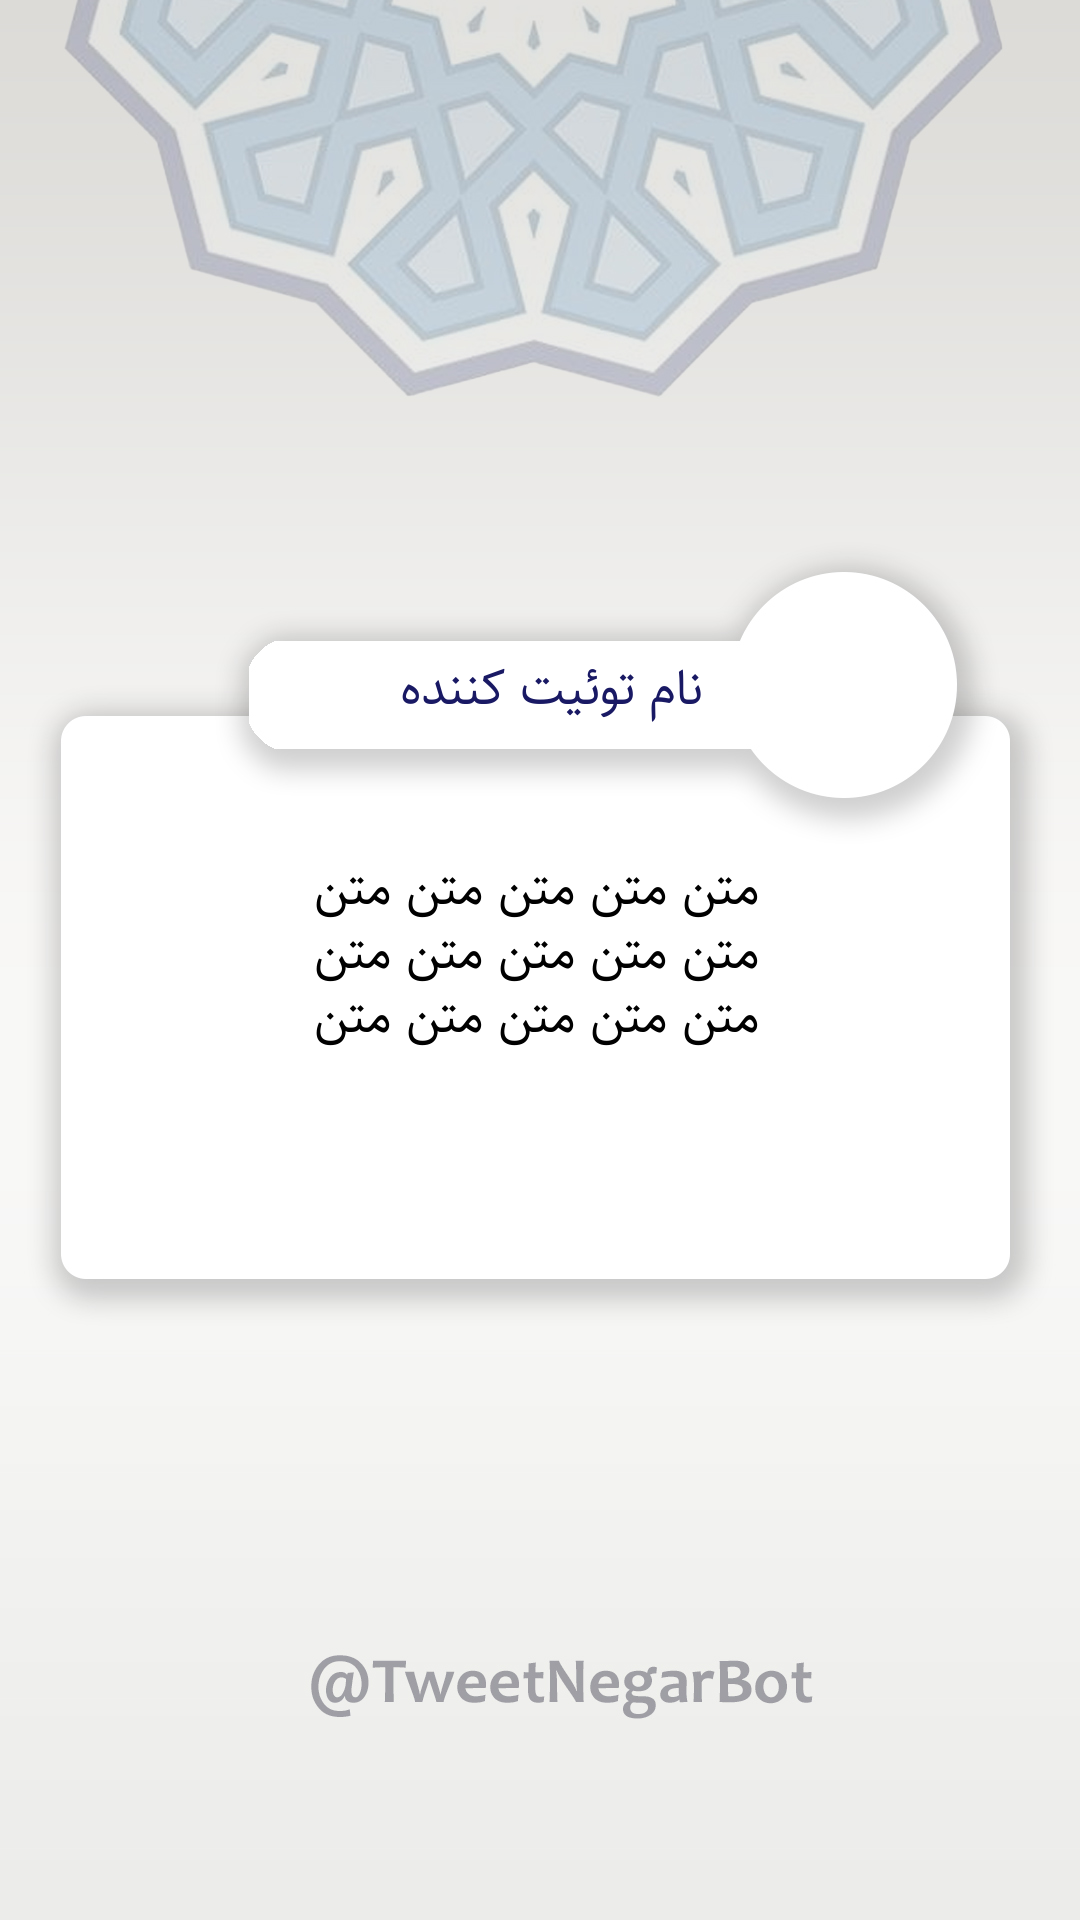
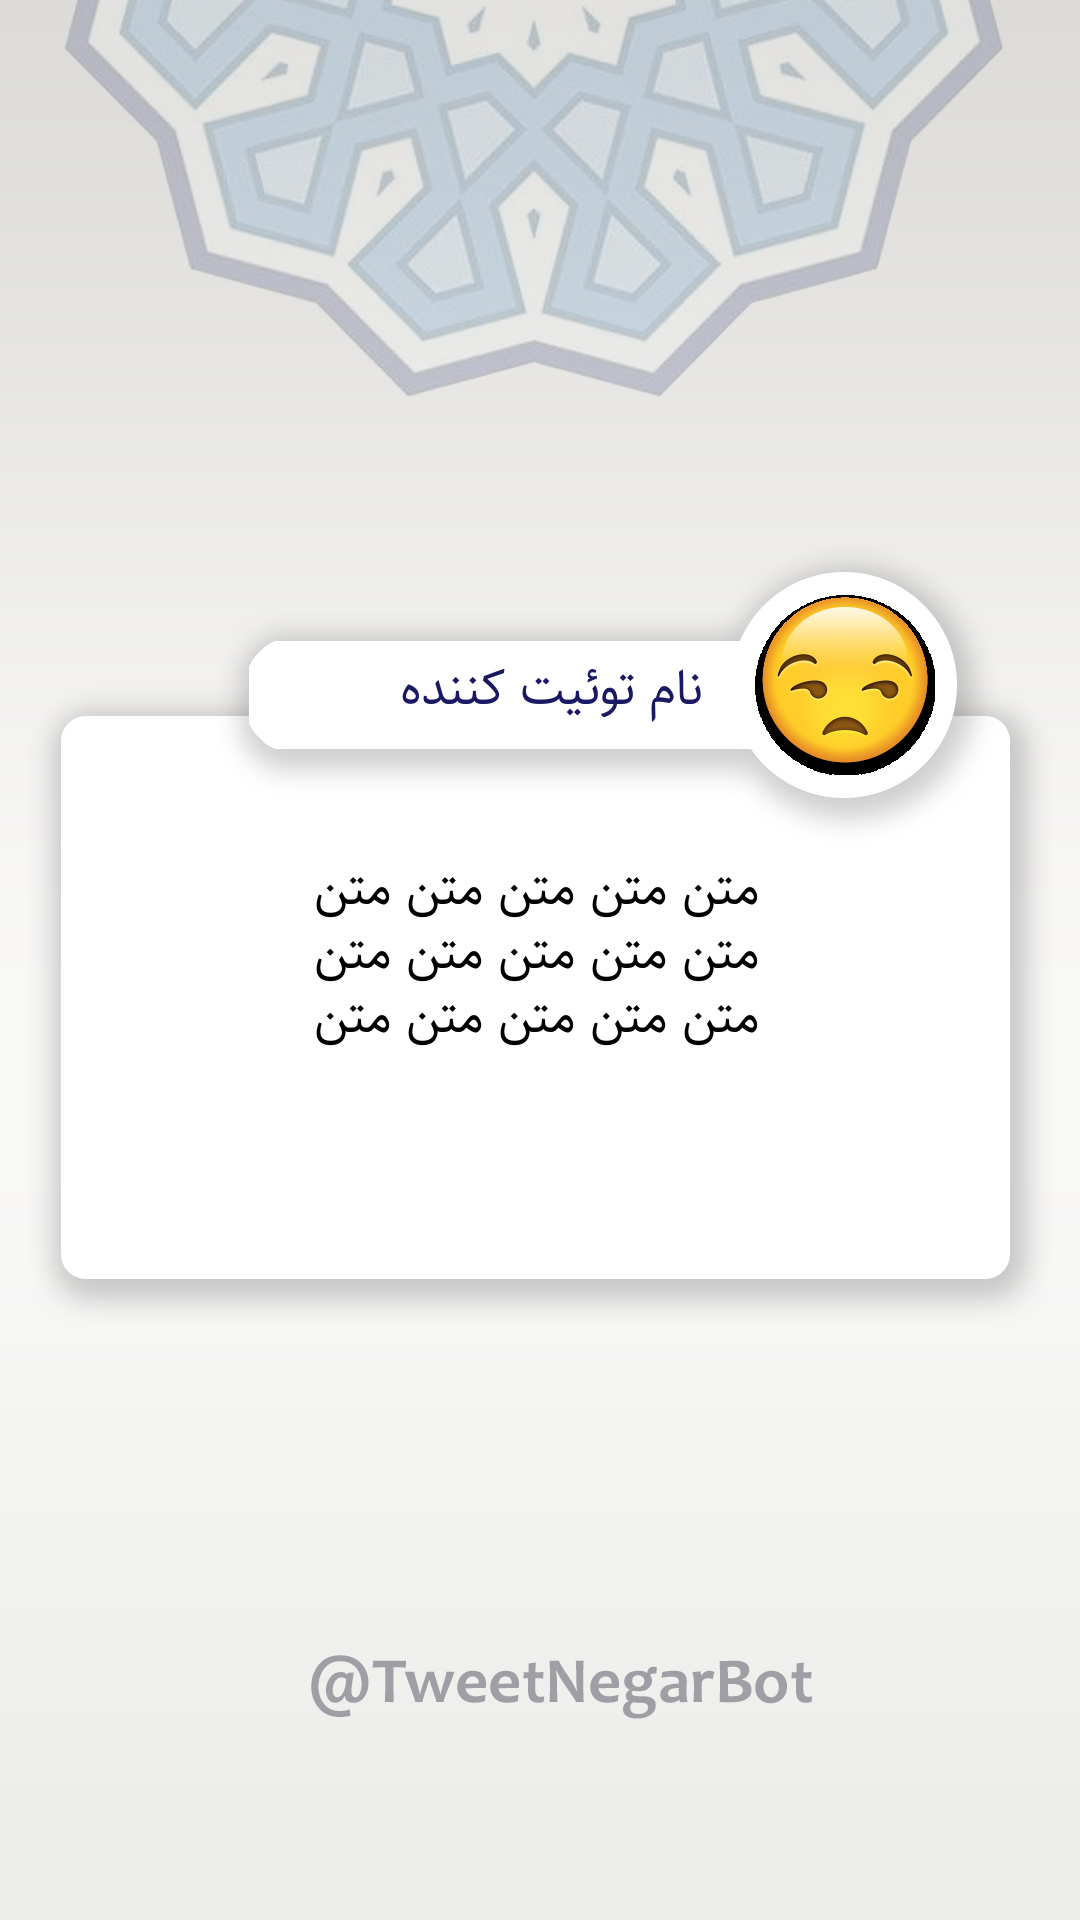
profile photo added

Changed region(s): [[0.7028, 0.3125, 0.8861, 0.4062]]

diff --git a/persian_char.py b/persian_char.py
@@ -10,8 +10,11 @@ from PIL import Image, ImageDraw, ImageFont
 # use a good font!
 fontFile = "./assets/font/sahel/sahel.ttf"
 
-# this was a 400x400 jpg file
+# a 1080x1920 jpg file
 imageFile = "./assets/images/input/tweetNegar.jpg"
+
+# load the profile photo
+profile = Image.open("./assets/user/profile.png") 
 
 # load the font and image
 font = ImageFont.truetype(fontFile, 50)
@@ -43,6 +46,13 @@ draw.text((400, 650), bidi_name, (25, 25, 100), font=font, spacing=0, align='rig
 draw.multiline_text((300, 850), bidi_text, fill='black', font=font, spacing=10, align='right')
 
 draw = ImageDraw.Draw(image)
+
+# draw profile photo on output
+mask = Image.new("L", profile.size, 0)
+draw = ImageDraw.Draw(mask)
+draw.ellipse((0, 0, 180, 180), fill=255)
+mask.save("./assets/user/mask.jpg")
+image.paste(profile, (755, 595), mask)
 
 # save it
 image.save("./assets/images/output/tweetNegar.png")
